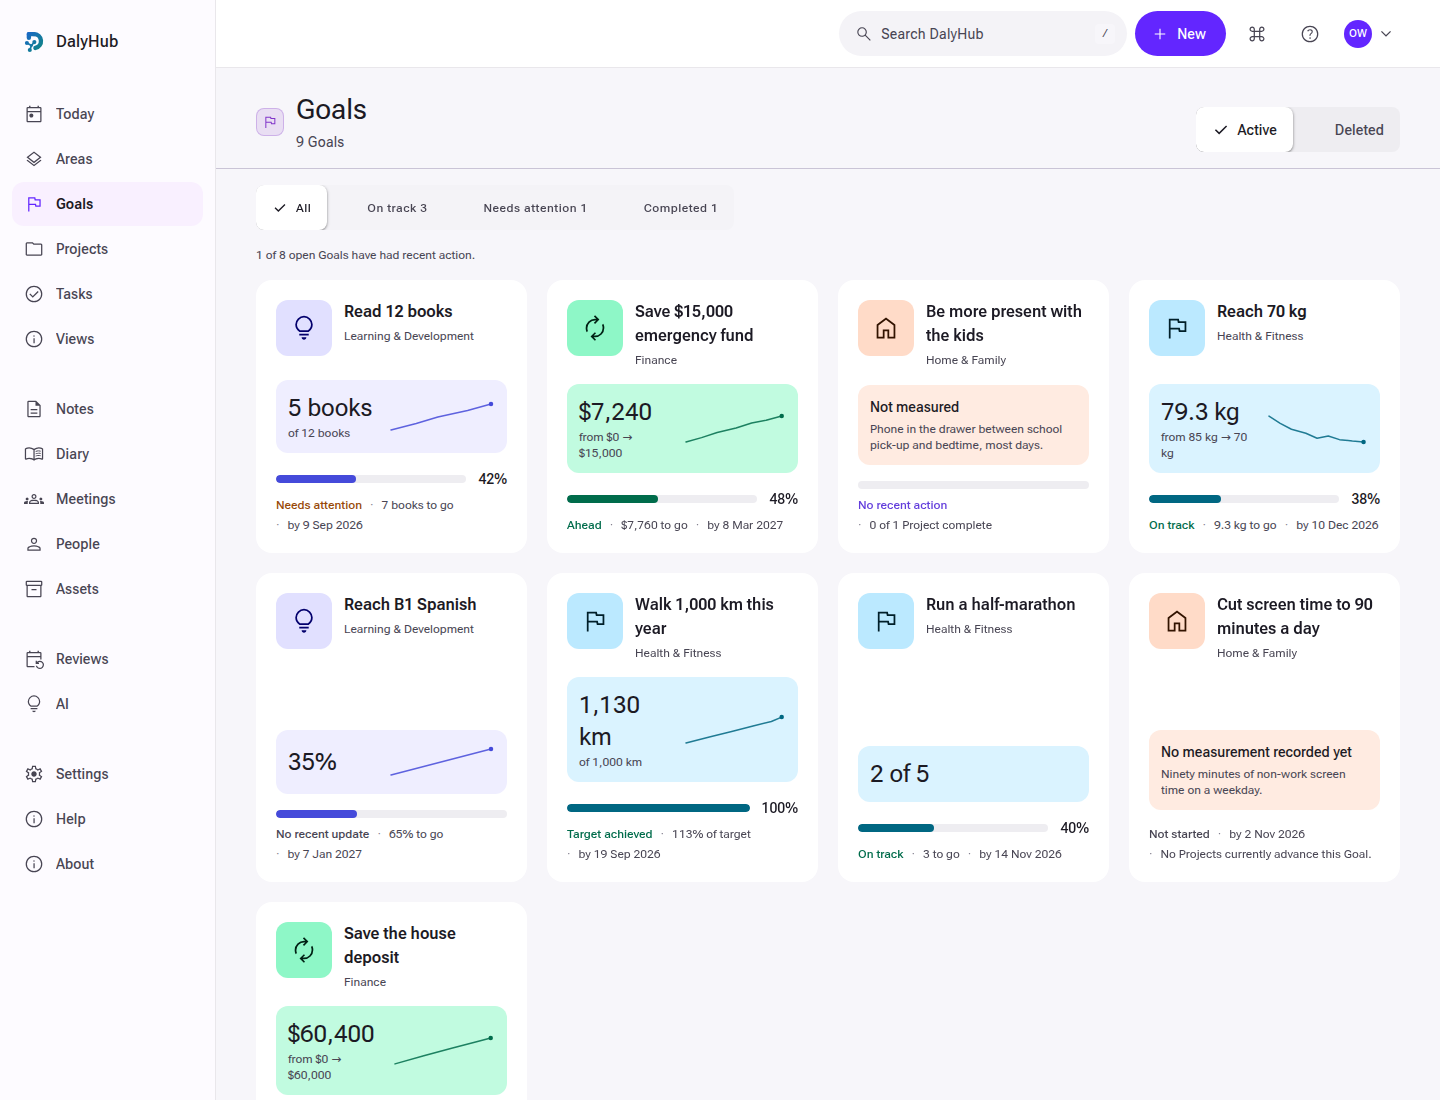
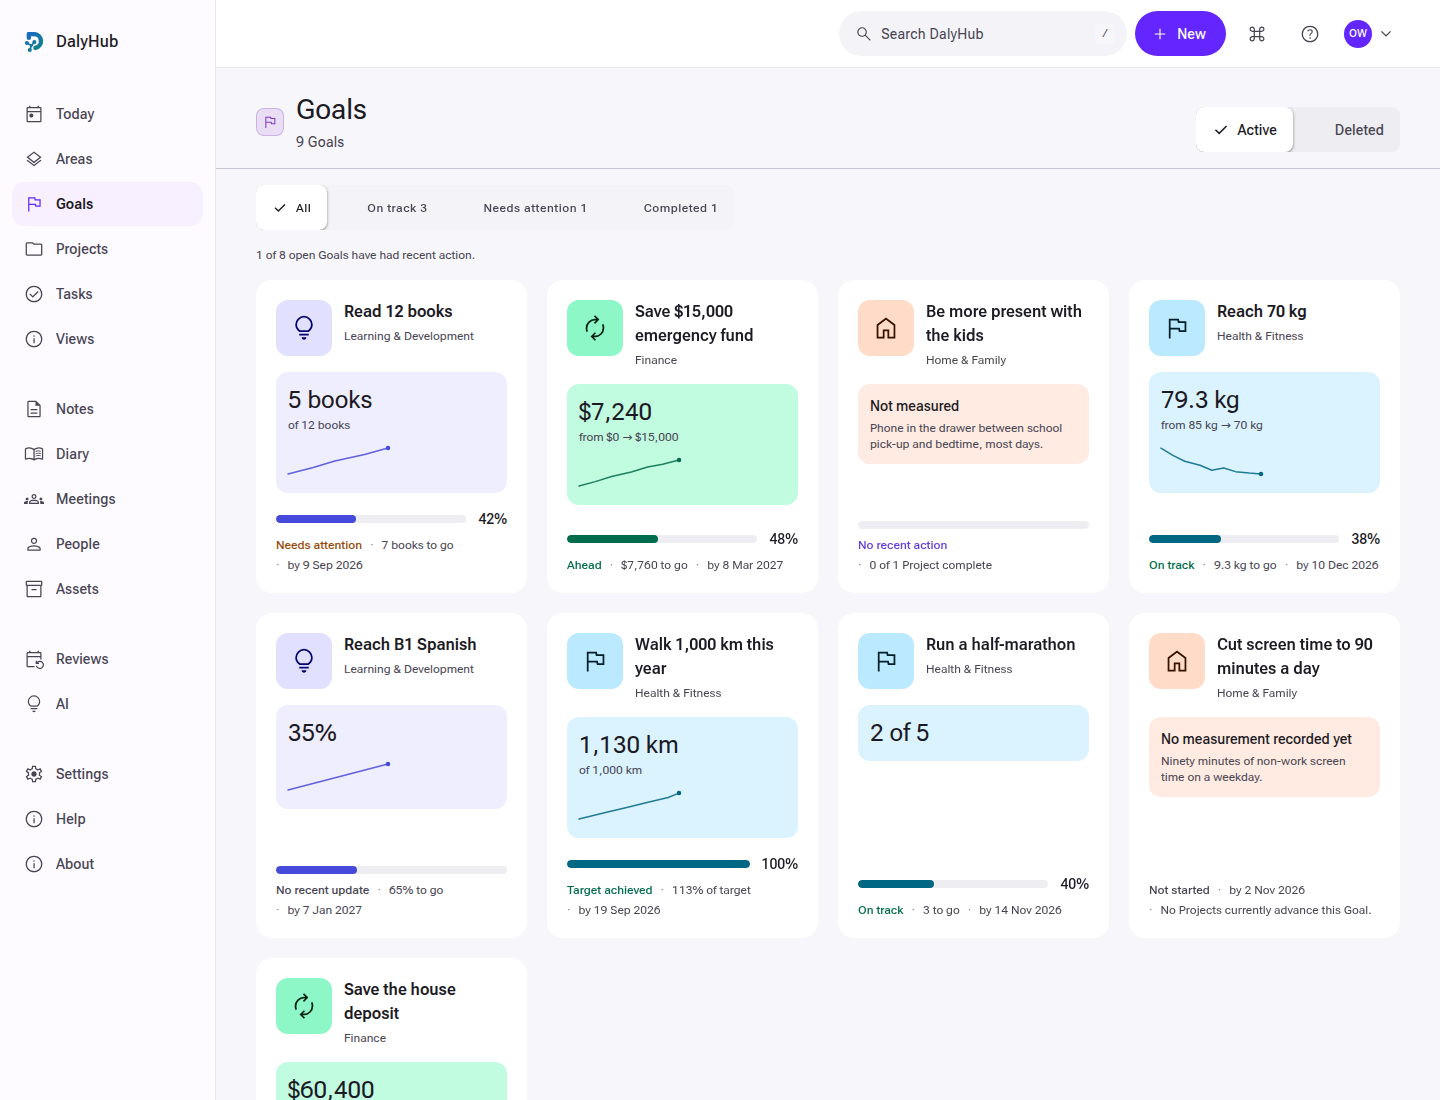
UIX-03: gallery layout at four columns, and one fact per relationship row
Three things the AFTER captures showed that the code did not:

  - At 1440 the Goal card is ~250px and the reading's track is that minus a
    6.5rem sparkline, so "from 85 kg → 70 kg" broke after the arrow and left
    "kg" alone on the next line. The reading block now wraps: the sparkline
    drops below rather than the sentence breaking mid-value.
  - The auto margin that pins the foot was on the BODY, which opened a hole
    between the title and the reading on every card shorter than its row — at
    four columns, most of them, with the card's most important element
    floating in the middle. Pinning the foot alone keeps every bar in a row on
    one baseline without the hole.
  - A Goal's Projects tab stated the task count twice: "Tasks: 1 of 4 tasks"
    as metadata and "Task roll-up: 1 of 4 tasks" directly beneath it as the
    bar's label. The bar keeps it; a Project with no tasks has no bar and
    keeps the metadata line, so the row never loses the fact.

Also records DEBT-122: the Goals gallery was `ExpressiveSummary`'s last
consumer, so that component, its styles and its M3X "hierarchy Level 1"
documentation now describe something no surface renders. Retiring it is a
design-system decision, not a Goals tidy-up.

Claude-Session: https://claude.ai/code/session_01RZwth2Jjf3WspsrTbdRDzX

diff --git a/app/styles/card-family.css b/app/styles/card-family.css
@@ -2586,19 +2586,35 @@
  * The default is the neutral sunken surface, so a Goal whose Area could not be
  * ranked gets a calm block rather than an arbitrary colour.
  */
+/*
+ * The reading sits directly under the title; only the FOOT is pushed to the
+ * bottom (see `.dh-gcard__foot`).
+ *
+ * Putting the auto margin here instead opened a hole between the title and the
+ * reading on every card shorter than its row — at four columns on a 1440 that
+ * was most of them, and the card's most important element floated in the middle
+ * of nowhere. Pinning the foot alone still lands every bar in a row on one
+ * baseline, which is the property that made the auto margin worth having.
+ */
 .dh-gcard__body {
   display: flex;
   min-inline-size: 0;
-  /* `auto` top margin pushes the reading down off the title and lets the foot
-   * stay pinned, so every card in a row lands its bar on one baseline. */
-  margin-block-start: auto;
 }
 
+/*
+ * `wrap`, so the sparkline drops BELOW the reading rather than squeezing it.
+ *
+ * At four columns the card is ~250px and the reading's track is that minus a
+ * 6.5rem chart, which broke "from 85 kg → 70 kg" after the arrow and left "kg"
+ * alone on the next line. Giving the metric a real flex basis makes the visual
+ * the thing that yields.
+ */
 .dh-gcard__reading {
   display: flex;
+  flex-wrap: wrap;
   align-items: center;
   justify-content: space-between;
-  gap: var(--app-space-3);
+  gap: var(--app-space-2) var(--app-space-3);
   inline-size: 100%;
   min-inline-size: 0;
   padding: var(--app-space-3);
@@ -2611,6 +2627,9 @@
   flex-direction: column;
   gap: var(--app-space-px);
   margin: 0;
+  /* 9rem: enough for "from $0 → $15,000" on one line. Below it the sparkline
+   * wraps under rather than the sentence breaking mid-value. */
+  flex: 1 1 9rem;
   min-inline-size: 0;
 }
 
@@ -2634,7 +2653,10 @@
   line-height: var(--md-sys-typescale-body-small-line-height);
   color: var(--md-sys-color-on-surface-variant);
   font-variant-numeric: tabular-nums;
-  overflow-wrap: anywhere;
+  /* `break-word`, not `anywhere`: a long custom unit still breaks rather than
+   * overflowing the card, but an ordinary "70 kg" is never split across lines
+   * just because the column is narrow. */
+  overflow-wrap: break-word;
 }
 
 /*
@@ -2642,7 +2664,8 @@
  * an unbounded chart would become the card, and the card is about the number.
  */
 .dh-gcard__visual {
-  flex: 0 1 6.5rem;
+  flex: 1 1 5rem;
+  max-inline-size: 6.5rem;
   min-inline-size: 3rem;
   display: flex;
   align-items: center;
@@ -2694,11 +2717,18 @@
   overflow-wrap: anywhere;
 }
 
+/*
+ * The pinned foot. `auto` top margin spends a taller-than-needed card's extra
+ * height on AIR between the reading and the bar, so every card in a row lands
+ * its bar and its state line on one baseline — which is what makes a gallery
+ * comparable at a glance.
+ */
 .dh-gcard__foot {
   display: flex;
   flex-direction: column;
   gap: var(--app-space-2);
   min-inline-size: 0;
+  margin-block-start: auto;
 }
 
 /*

diff --git a/e2e/goals-outcomes.spec.ts b/e2e/goals-outcomes.spec.ts
@@ -16,6 +16,7 @@
 import { expect, test, type Page } from "@playwright/test";
 
 import {
+  RESPONSIVE_VIEWPORTS,
   expectNoAxeViolations,
   gotoFixture,
   hasNoHorizontalOverflow,
@@ -286,5 +287,57 @@ test.describe("UIX-03 — phone and accessibility", () => {
     await expect(page.getByTestId("goal-trend-chart")).toBeVisible();
     expect(await hasNoHorizontalOverflow(page)).toBe(true);
     await expectNoAxeViolations(page);
+  });
+});
+
+test.describe("UIX-03 — the responsive matrix", () => {
+  /*
+   * The gallery and the record across every width the contract names — 320
+   * through ultra-wide. The Goal card is the newest composition in the product
+   * and the one most able to overflow: a tinted block holding a display-size
+   * value, a sparkline and a currency figure, three or four to a row.
+   */
+  test("the Goals gallery never scrolls sideways at any supported width", async ({
+    page,
+  }) => {
+    for (const viewport of RESPONSIVE_VIEWPORTS) {
+      await page.setViewportSize({
+        width: viewport.width,
+        height: viewport.height,
+      });
+      await gotoFixture(page, "/goals");
+      await expect(page.getByTestId("goal-card").first()).toBeVisible();
+      expect(
+        await hasNoHorizontalOverflow(page),
+        `horizontal overflow at ${viewport.label}`,
+      ).toBe(true);
+    }
+  });
+
+  test("a measurable Goal record never scrolls sideways at any supported width", async ({
+    page,
+  }) => {
+    const url = await createMeasurableGoal(page, {
+      title: `Cycle 2,000 km ${RUN}`,
+      unit: "km",
+      start: "0",
+      target: "2000",
+    });
+    await logMeasurement(page, "300", "2026-06-01");
+    await logMeasurement(page, "720", "2026-07-01");
+
+    for (const viewport of RESPONSIVE_VIEWPORTS) {
+      await page.setViewportSize({
+        width: viewport.width,
+        height: viewport.height,
+      });
+      await gotoFixture(page, url);
+      // The chart is the element most likely to force a wide page.
+      await expect(page.getByTestId("goal-trend-chart")).toBeVisible();
+      expect(
+        await hasNoHorizontalOverflow(page),
+        `horizontal overflow at ${viewport.label}`,
+      ).toBe(true);
+    }
   });
 });

diff --git a/app/modules/goals/GoalProjectsTab.tsx b/app/modules/goals/GoalProjectsTab.tsx
@@ -193,16 +193,19 @@ function projectCard(
   onOpenProject: (projectId: string) => void,
 ): CardProps {
   const hasTasks = project.taskTotal > 0;
-  const metadata: CardMetaItem[] = [];
-  if (hasTasks) {
-    metadata.push({
-      id: "tasks",
-      label: "Tasks",
-      value: `${project.taskCompleted} of ${project.taskTotal} tasks`,
-    });
-  } else {
-    metadata.push({ id: "tasks", label: "Tasks", value: "No tasks yet" });
-  }
+  /*
+   * UIX-03 — the task count is stated ONCE.
+   *
+   * The row carried "Tasks: 0 of 1 tasks" as metadata AND
+   * "Task roll-up: 0 of 1 tasks" as the bar's label, directly beneath it: one
+   * fact, two renderings, on a row whose whole job is to be a compact pointer
+   * at a Project. The BAR keeps it, because a bar with no figure is the thing
+   * that needs the words; a Project with no tasks has no bar, so it keeps the
+   * metadata line instead and the row never loses the fact entirely.
+   */
+  const metadata: CardMetaItem[] = hasTasks
+    ? []
+    : [{ id: "tasks", label: "Tasks", value: "No tasks yet" }];
   return {
     id: project.id,
     title: project.title,
@@ -215,7 +218,7 @@ function projectCard(
       ? {
           value: project.taskCompleted,
           max: project.taskTotal,
-          label: `Task roll-up: ${project.taskCompleted} of ${project.taskTotal} tasks`,
+          label: `${project.taskCompleted} of ${project.taskTotal} tasks`,
         }
       : undefined,
     density: "comfortable",

diff --git a/test/unit/goals/GoalOverview.test.tsx b/test/unit/goals/GoalOverview.test.tsx
@@ -363,7 +363,15 @@ describe("GoalOverview", () => {
     const onOpenProject = vi.fn();
     renderGoal({ projects: [project()], onOpenProject });
     fireEvent.click(screen.getByRole("tab", { name: /Projects/ }));
-    expect(screen.getByText("Task roll-up: 1 of 4 tasks")).toBeInTheDocument();
+    /*
+     * UIX-03 — the roll-up is stated ONCE, as the bar's label.
+     *
+     * The row used to carry "Tasks: 1 of 4 tasks" as metadata AND "Task
+     * roll-up: 1 of 4 tasks" beneath it as the bar's label: one fact, twice, on
+     * a row whose whole job is to be a compact pointer at a Project.
+     */
+    expect(screen.getByText("1 of 4 tasks")).toBeInTheDocument();
+    expect(screen.queryByText(/Task roll-up/)).toBeNull();
     fireEvent.click(
       screen.getByRole("link", { name: "Open 12-week training plan" }),
     );

diff --git a/docs/product/PRODUCT_DEBT.md b/docs/product/PRODUCT_DEBT.md
@@ -13,7 +13,7 @@
 - **Found new debt?** Add it with the [template](#entry-template) rather than leaving it undocumented. Undocumented divergence is the worst kind.
 - **Priority:** `P1` (actively harms coherence/trust), `P2` (notable friction), `P3` (cleanup).
 - **Status:** ☐ open · ◐ in progress · ☑ resolved.
-- **IDs are unique and stable.** Never reuse a retired number; never issue a number twice. The next free ID is **DEBT-122** (DEBT-120 and DEBT-121 were raised by UIX-03; DEBT-116…DEBT-119 were raised by the [August 2026 UX/Product audit](DALYHUB_UX_PRODUCT_AUDIT_2026_08.md); DEBT-115 was raised by TASKS-09; DEBT-114 was raised by GOAL-02; DEBT-111, DEBT-112 and DEBT-113 were raised by the 9 August 2026 E2E regression audit; DEBT-109 and DEBT-110 were raised by the V2.2 Tasks daily-driver programme, renumbered from 107/108 on merge; DEBT-107 was raised by the August 2026 UI quality audit — it had been issued as a SECOND `DEBT-101`, which this rule forbids, and was renumbered when the first DEBT-101 was resolved; DEBT-106 was raised by PEOPLE-04/DIARY-02; DEBT-105 is the AUDIT-11 half of DEBT-85, split out on resolution; DEBT-102…DEBT-104 were raised by the Today screen redesign; DEBT-101 was raised by EDIT-02; DEBT-99 and DEBT-100 were raised by M3-INT; DEBT-97 and DEBT-98 were raised by EDIT-01/DS-16; DEBT-95 and DEBT-96 were raised by the shell-polish change; DEBT-90 is now ☑; DEBT-90…DEBT-94 were raised by AI-01/AI-04; DEBT-79…DEBT-88 were raised by the [5 August 2026 end-to-end audit](END_TO_END_AUDIT_2026_08_05.md)). (One entry, **AUDIT-IDENTITY-01**, keeps its original audit identifier rather than being renumbered, so it stays traceable to the audit that raised it.)
+- **IDs are unique and stable.** Never reuse a retired number; never issue a number twice. The next free ID is **DEBT-123** (DEBT-120…DEBT-122 were raised by UIX-03; DEBT-116…DEBT-119 were raised by the [August 2026 UX/Product audit](DALYHUB_UX_PRODUCT_AUDIT_2026_08.md); DEBT-115 was raised by TASKS-09; DEBT-114 was raised by GOAL-02; DEBT-111, DEBT-112 and DEBT-113 were raised by the 9 August 2026 E2E regression audit; DEBT-109 and DEBT-110 were raised by the V2.2 Tasks daily-driver programme, renumbered from 107/108 on merge; DEBT-107 was raised by the August 2026 UI quality audit — it had been issued as a SECOND `DEBT-101`, which this rule forbids, and was renumbered when the first DEBT-101 was resolved; DEBT-106 was raised by PEOPLE-04/DIARY-02; DEBT-105 is the AUDIT-11 half of DEBT-85, split out on resolution; DEBT-102…DEBT-104 were raised by the Today screen redesign; DEBT-101 was raised by EDIT-02; DEBT-99 and DEBT-100 were raised by M3-INT; DEBT-97 and DEBT-98 were raised by EDIT-01/DS-16; DEBT-95 and DEBT-96 were raised by the shell-polish change; DEBT-90 is now ☑; DEBT-90…DEBT-94 were raised by AI-01/AI-04; DEBT-79…DEBT-88 were raised by the [5 August 2026 end-to-end audit](END_TO_END_AUDIT_2026_08_05.md)). (One entry, **AUDIT-IDENTITY-01**, keeps its original audit identifier rather than being renumbered, so it stays traceable to the audit that raised it.)
   - **Known ID collision, recorded rather than silently renumbered (UX-01, 2026-08-01).** The number **DEBT-45** was issued twice: once for *"A captured record is not linked to the context it was captured from"* and once for *"Keyset paginators can consume a revalidated fetcher page after a scope reset"*. Renumbering either would break every existing cross-reference, so both keep the number and each is identified by its title. Both are now ☑ (the pagination one on 2026-08-01, the capture-context one on 2026-08-08). Do not issue DEBT-45 again.
   - **A near-miss, resolved the other way (2026-08-08).** PEOPLE-04/DIARY-02 and AUDIT-11 both issued **DEBT-105** in parallel. AUDIT-11 landed on `main` first, so it keeps the number and the PEOPLE-04/DIARY-02 entry was renumbered to **DEBT-106** on merge. That is the opposite of the DEBT-45 decision above, and deliberately so: DEBT-45 was renumbered-averse because it already had cross-references to break, whereas this entry was one commit old with a single self-reference. Renumber while it is cheap; record the collision when it is not.
   - **Twice more, resolved the same way (2026-08-08).** The V2.2 Tasks daily-driver programme and the August 2026 UI quality audit both issued **DEBT-107** in parallel, and the same programme's second entry collided with the audit's **DEBT-108**. The audit landed on `main` first, so it keeps both numbers and the V2.2 entries became **DEBT-109** and **DEBT-110** on merge. Two ADRs collided in the same merge for the same reason — `main` landed ADR-083 and ADR-084, so V2.2's became **ADR-085**. All four were a few commits old with cross-references only inside their own programme's documents, so renumbering stayed cheap. The pattern is now frequent enough to be worth naming: **two branches open at once will both reach for the next free number, and the file cannot stop them — only the merge can.** Take the next free ID as late as you can, and re-check it when you rebase.
@@ -973,6 +973,12 @@ authority now.)
 - **Current issue.** The Goals status views carry counts ("On track 3"), derived from the Goals loaded so far. A workspace with more Goals than one page shows counts for the page, beside a subtitle that already says "N Goals loaded".
 - **Why it was not changed here.** A workspace-wide count per status means computing every Goal's derived status server-side for the whole workspace on every collection render — the status depends on measurement history, target dates and the owner's calendar day, so it cannot be a cheap aggregate. The per-page limitation is the same one ADR-040 §40.9 already discloses for the alignment recap, and the counts are consistent with the cards beneath them, which is the property that matters most.
 - **Desired future state.** Either a bounded materialised status the collection can aggregate, or drop the counts if the workspace-wide figure is what owners read them as.
+
+### ☐ DEBT-122 — `ExpressiveSummary` now has no consumer — P3
+
+- **Current issue.** UIX-03 replaced the Goals gallery's expressive banner (a ring, two counts and a headline, all describing alignment rather than an outcome) with a compact status-view row. The Goals collection was `ExpressiveSummary`'s **last** consumer, so the component, its styles, its `MAX_SUMMARY_STATS` contract and its M3X "hierarchy Level 1" documentation now describe something no product surface renders.
+- **Why it was not removed here.** It is a documented design-system component with a stated role in the M3X hierarchy, and `SupportingSurface` is defined in relation to it. Deleting it is a design-system decision — is "one dominant expressive surface per page" still a rule the product wants? — not a tidy-up to fold into a Goals redesign.
+- **Desired future state.** Either a surface adopts it (the Reviews insights page is the obvious candidate), or the M3X hierarchy is restated without a Level 1 and the component, its styles and its docs are retired together.
 
 ## Debt raised by the 5 August 2026 end-to-end audit
 
